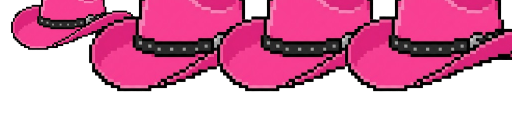
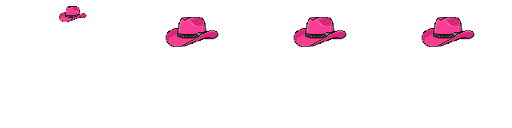
feat(editor): enforce uniform scale per (fighter, accessory)
Any scale adjustment — keyboard, toolbar button, or Ctrl+wheel —
broadcasts to every frame of every calibrated animation for the current
fighter and accessory. Creating a fresh session for an uncalibrated
anim also inherits the shared scale from any sibling.

The manifest shape stays per-frame; the UI is what guarantees the
invariant. Migrated the existing manifest.json so all frames share each
(fighter, accessory)'s idle-frame-0 scale.

diff --git a/src/scenes/OverlayEditorScene.js b/src/scenes/OverlayEditorScene.js
@@ -393,17 +393,45 @@ export class OverlayEditorScene extends Phaser.Scene {
     const anim = this._anim();
     const frameCount = ANIM_DEFS[anim];
     const entry = this.manifest.get(fighter, accessory, anim);
+    let frames = entry?.frames ?? null;
+    // If this combo isn't calibrated yet, inherit the shared scale from any
+    // sibling anim so scale stays uniform per (fighter, accessory).
+    if (!frames) {
+      const sharedScale = this._sharedScale(fighter, accessory);
+      if (sharedScale !== null) {
+        frames = Array.from({ length: frameCount }, () => ({
+          x: 64,
+          y: 32,
+          rotation: 0,
+          scale: sharedScale,
+        }));
+      }
+    }
     this.session = new OverlaySession({
       fighterId: fighter,
       accessoryId: accessory,
       animation: anim,
       frameCount,
-      frames: entry?.frames ?? null,
+      frames,
       keyframes: entry?.keyframes ?? null,
       lastEditedAt: entry?.lastEditedAt ?? null,
     });
     this.frameIdx = Math.min(this.frameIdx, frameCount - 1);
     this._render();
+  }
+
+  /**
+   * Return the scale currently used for this (fighter, accessory) in the
+   * manifest, or null if the combo has no calibrated sibling. Assumes all
+   * frames of all anims share the same scale (the UI enforces this).
+   */
+  _sharedScale(fighter, accessory) {
+    const byAnim = this.manifest.calibrations?.[fighter]?.[accessory];
+    if (!byAnim) return null;
+    for (const entry of Object.values(byAnim)) {
+      if (entry?.frames?.length) return entry.frames[0].scale;
+    }
+    return null;
   }
 
   _flushSessionToManifest() {
@@ -435,8 +463,44 @@ export class OverlayEditorScene extends Phaser.Scene {
 
   _applyDelta(delta) {
     if (!this.session) return;
-    this.session.applyTransform(this.frameIdx, delta);
+    // Scale is uniform across all frames of all anims for this (fighter,
+    // accessory). Apply the x/y/rotation parts to just the current frame,
+    // and broadcast any scale delta to every calibrated sibling.
+    const { scale: scaleDelta, ...nonScale } = delta;
+    if (Object.keys(nonScale).length > 0) {
+      this.session.applyTransform(this.frameIdx, nonScale);
+    }
+    if (scaleDelta !== undefined && scaleDelta !== 0) {
+      const newScale = this._clampScale(this.session.frames[this.frameIdx].scale + scaleDelta);
+      this._broadcastScale(newScale);
+    }
     this._render();
+  }
+
+  _clampScale(s) {
+    if (s < 0.05) return 0.05;
+    if (s > 4) return 4;
+    return s;
+  }
+
+  _broadcastScale(newScale) {
+    // Update every frame of the current in-memory session.
+    for (let i = 0; i < this.session.frameCount; i++) {
+      const f = this.session.frames[i];
+      this.session.setTransform(i, { x: f.x, y: f.y, rotation: f.rotation, scale: newScale });
+    }
+    // Update every other calibrated anim for this (fighter, accessory) so the
+    // scale stays uniform after the next save.
+    const fighter = this._fighter();
+    const accessory = this._accessory();
+    const currentAnim = this._anim();
+    const byAnim = this.manifest.calibrations?.[fighter]?.[accessory];
+    if (!byAnim) return;
+    for (const [anim, entry] of Object.entries(byAnim)) {
+      if (anim === currentAnim) continue;
+      for (const f of entry.frames) f.scale = newScale;
+      entry.lastEditedAt = new Date().toISOString();
+    }
   }
   _copyFromPrev() {
     this.session?.copyFromPrev(this.frameIdx);
